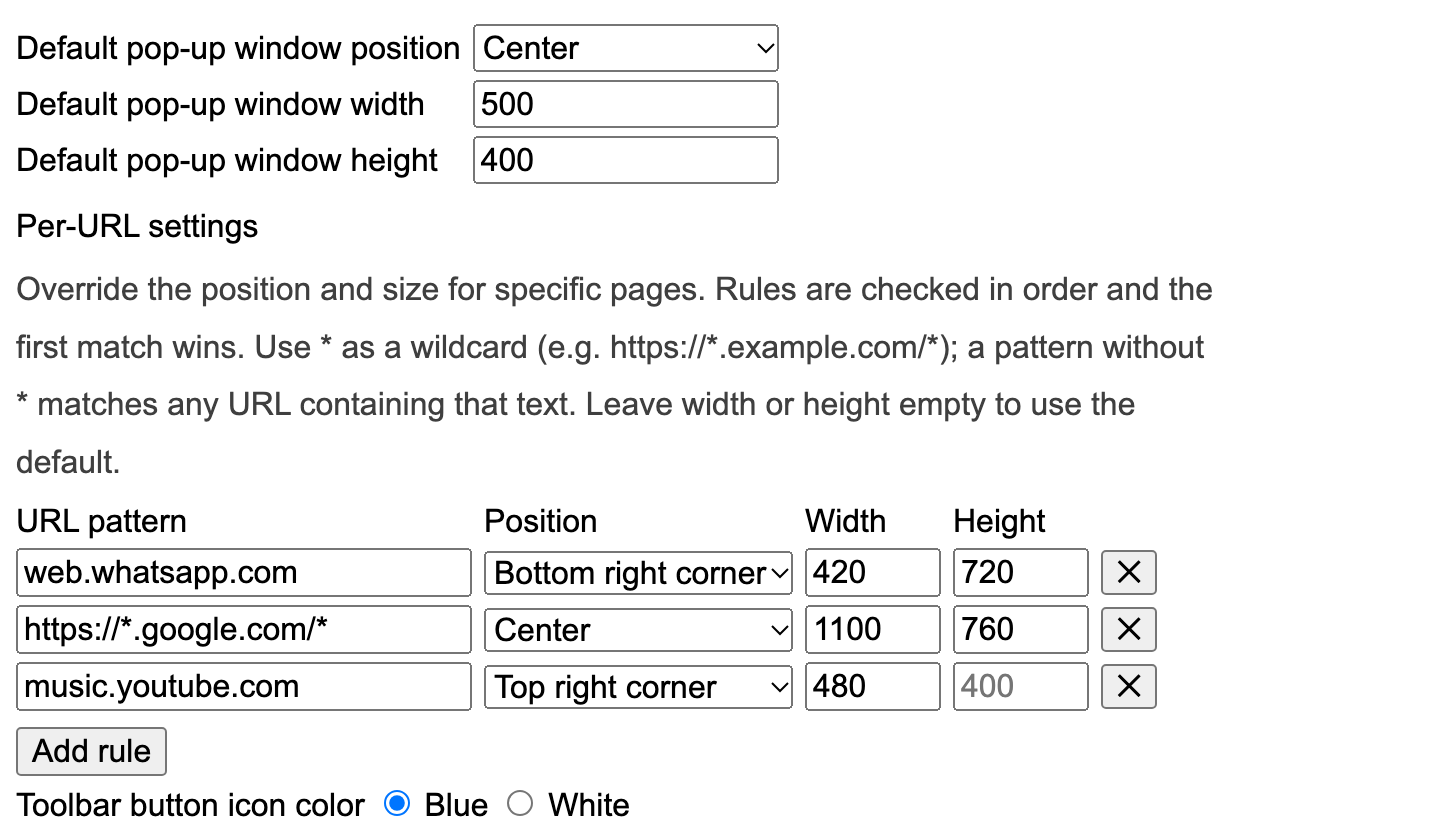
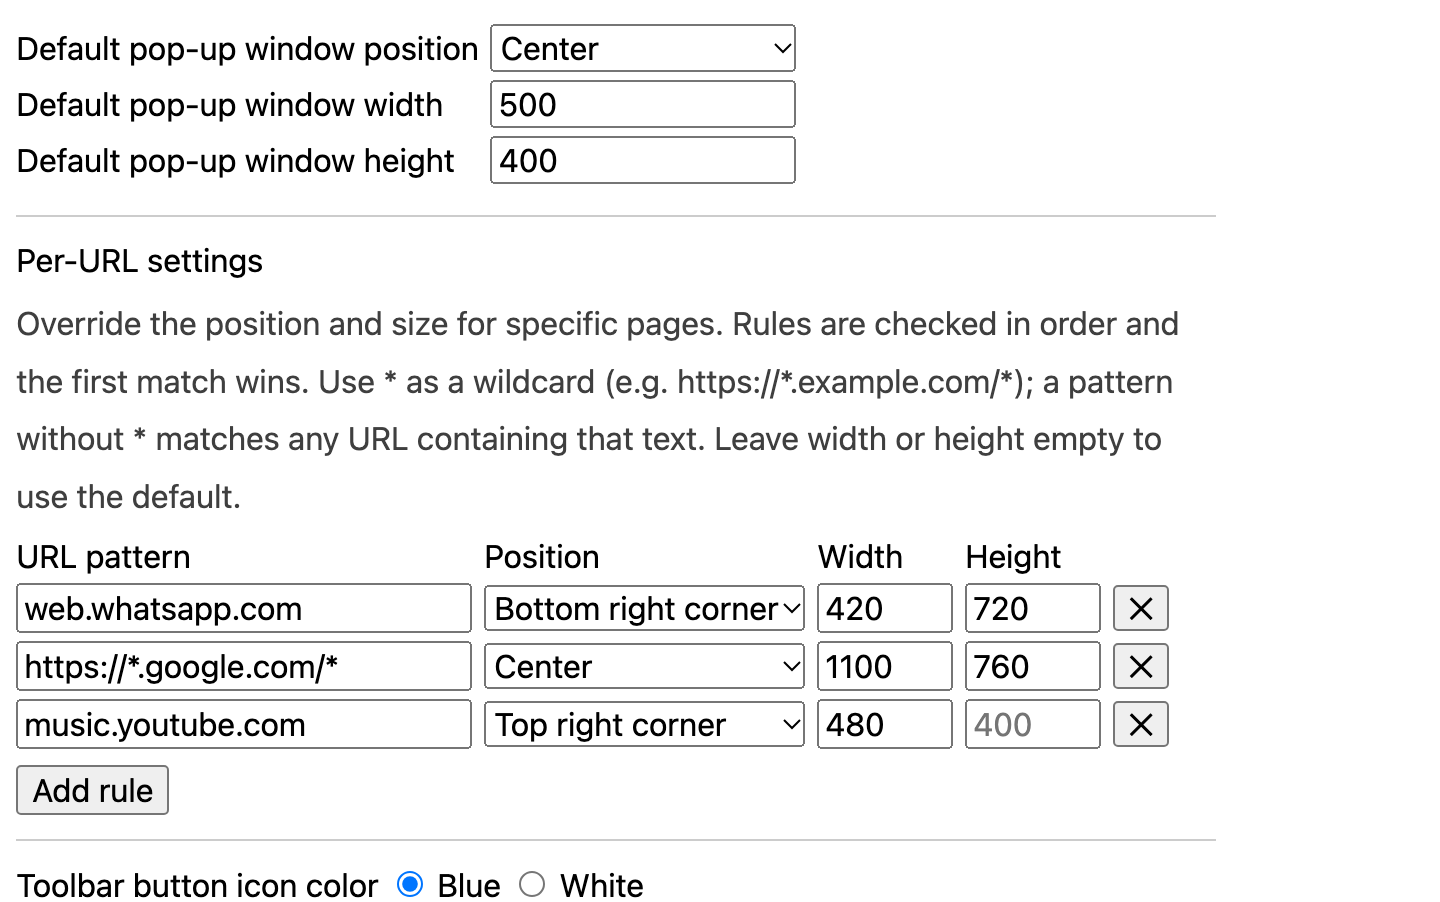
Add dividers to the options page, use the system font and update the options screenshot

diff --git a/src/options.css b/src/options.css
@@ -4,13 +4,13 @@
   color-scheme: light dark;
 }
 
-/* Arial at the page's default size everywhere, form controls included (they
-   don't inherit the page font). */
+/* The system UI font at the page's default size everywhere, form controls
+   included (they don't inherit the page font). */
 body,
 input,
 select,
 button {
-  font-family: Arial, sans-serif;
+  font-family: system-ui, sans-serif;
   font-size: inherit;
 }
 
@@ -75,8 +75,26 @@ input:invalid {
   display: inline-block;
 }
 
-.urlRulesSection {
+/* Divider above the per-URL and toolbar icon sections: gray in light mode,
+   white in dark mode. */
+.urlRulesSection,
+.iconColorSection {
   margin-top: 12px;
+  padding-top: 12px;
+  border-top: 1px solid #cccccc;
+}
+
+@media (prefers-color-scheme: dark) {
+  .urlRulesSection,
+  .iconColorSection {
+    border-top-color: #ffffff;
+  }
+}
+
+/* The first divider sits 3.5px lower, so the gap above it (to the height input)
+   looks the same as the gap below it (to the Per-URL settings text). */
+.urlRulesSection {
+  margin-top: 15.5px;
 }
 
 .urlRulesSection > label {

diff --git a/src/options.html b/src/options.html
@@ -88,7 +88,7 @@
           </button>
         </div>
 
-        <div class="itemDiv">
+        <div class="itemDiv iconColorSection">
           <div id="iconColor" type="radioGroup">
             <label data-l10n-id="iconColor">Toolbar button icon color</label>
             <input type="radio" id="iconColorBlue" name="iconColor" value="0">
